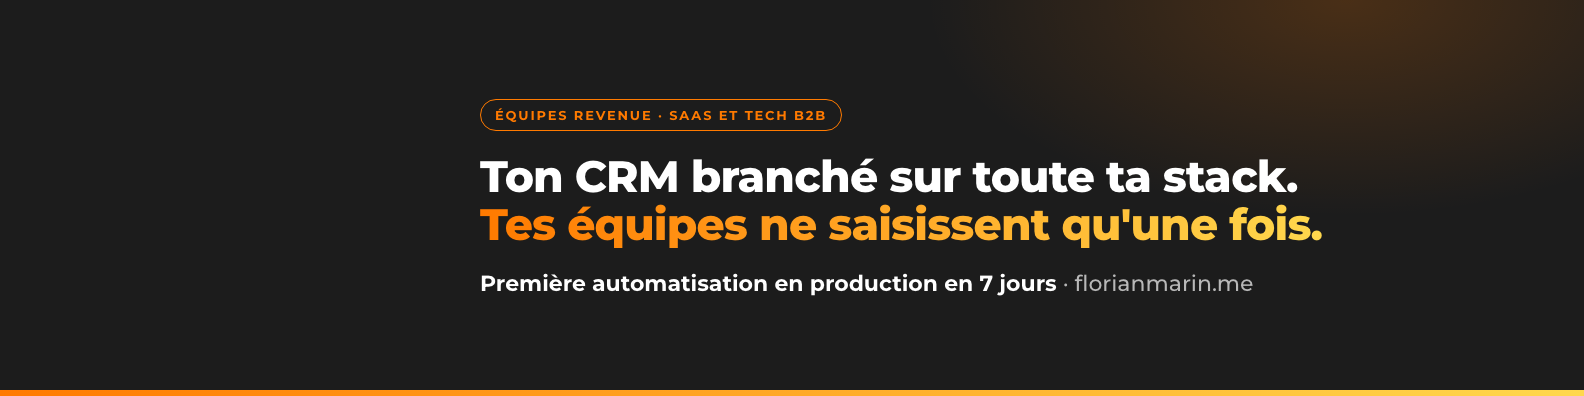
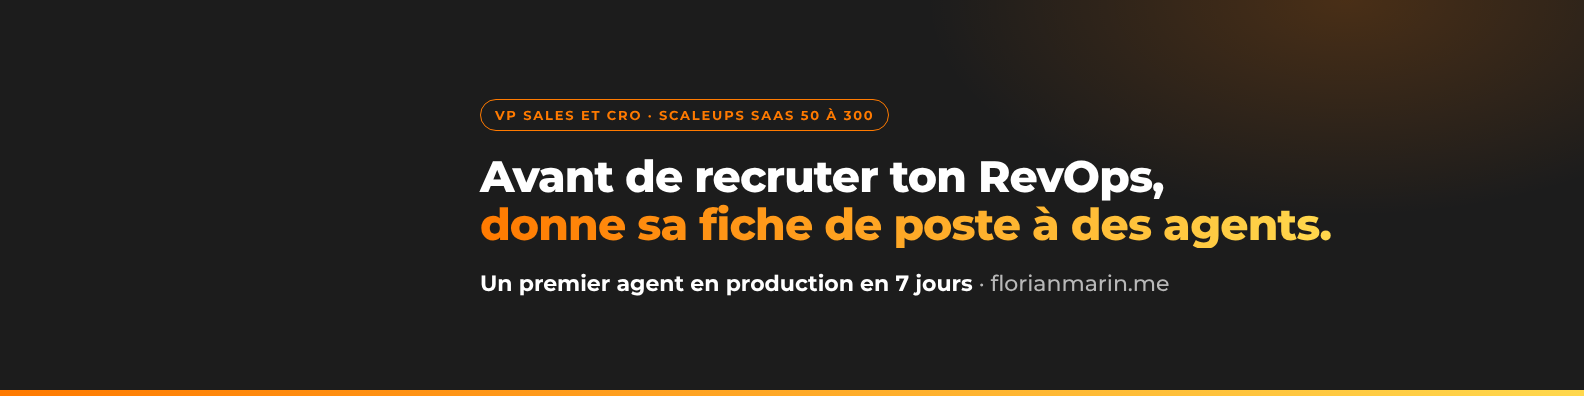
feat(landing): bannière LinkedIn Méthode Fiche de Poste, un premier agent en 7 jours
Claude-Session: https://claude.ai/code/session_015weZqvuWHgxdg7uFWGZRow

diff --git a/_print/visuels-positionnement.html b/_print/visuels-positionnement.html
@@ -95,7 +95,7 @@
     <div class="in">
       <span class="pill">VP Sales et CRO · Scaleups SaaS 50 à 300</span>
       <h1><span class="l">Avant de recruter ton RevOps,</span><span class="l grad">donne sa fiche de poste à des agents.</span></h1>
-      <p><b>Première automatisation en production en 7 jours</b> · florianmarin.me</p>
+      <p><b>Un premier agent en production en 7 jours</b> · florianmarin.me</p>
     </div>
   </div>
   <div class="frame ogd">
